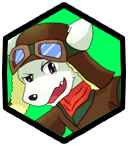
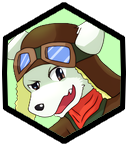
修了局面bug，吉克和茂八更容易辨识，另外，存档行为和verse保持一致
防作弊怎么写？

diff --git a/js/html_actuator.js b/js/html_actuator.js
@@ -63,12 +63,12 @@ HTMLActuator.prototype.actuate = function (grid, metadata) {
 				total_sum_finals += grid.cells[i][j].value;
 		   }
 		   if (total_sum_finals  - maxscore > 0){ 
-				document.getElementsByTagName("span")[10].innerHTML = ((total_sum_finals  - maxscore) / 1024).toFixed(0);
+				document.getElementsByTagName("span")[10].innerHTML = Math.floor((total_sum_finals  - maxscore) / 1024);
 		   } else {
-			   document.getElementsByTagName("span")[10].innerHTML = (-(total_sum_finals  - maxscore) / 1024).toFixed(0);
+			   document.getElementsByTagName("span")[10].innerHTML = Math.floor(-(total_sum_finals  - maxscore) / 1024);
 		   }
 		   
-		 document.getElementsByTagName("span")[11].innerHTML = (maxscore / 1024).toFixed(0);
+		 document.getElementsByTagName("span")[11].innerHTML = Math.floor(maxscore / 1024);
 		  
 		  if (maxscore < 2048){
 			  Diffculty.classList.remove(Diffculty.className);

diff --git a/js/game_manager.js b/js/game_manager.js
@@ -109,11 +109,7 @@ GameManager.prototype.actuate = function () {
   }
 
   // Clear the state when the game is over (game over only, not win)
-  if (this.over) {
-    this.storageManager.clearGameState();
-  } else {
-    this.storageManager.setGameState(this.serialize());
-  }
+  this.storageManager.setGameState(this.serialize());
 
   this.actuator.actuate(this.grid, {
     score:      this.score,
